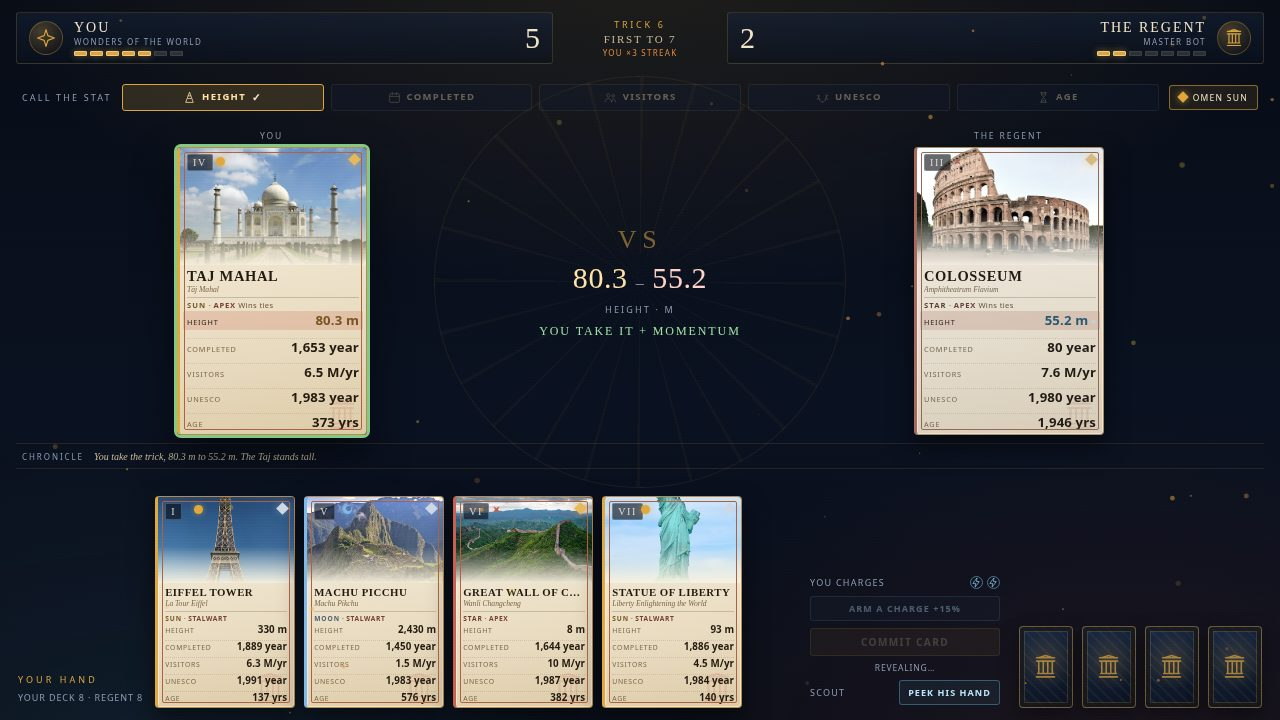
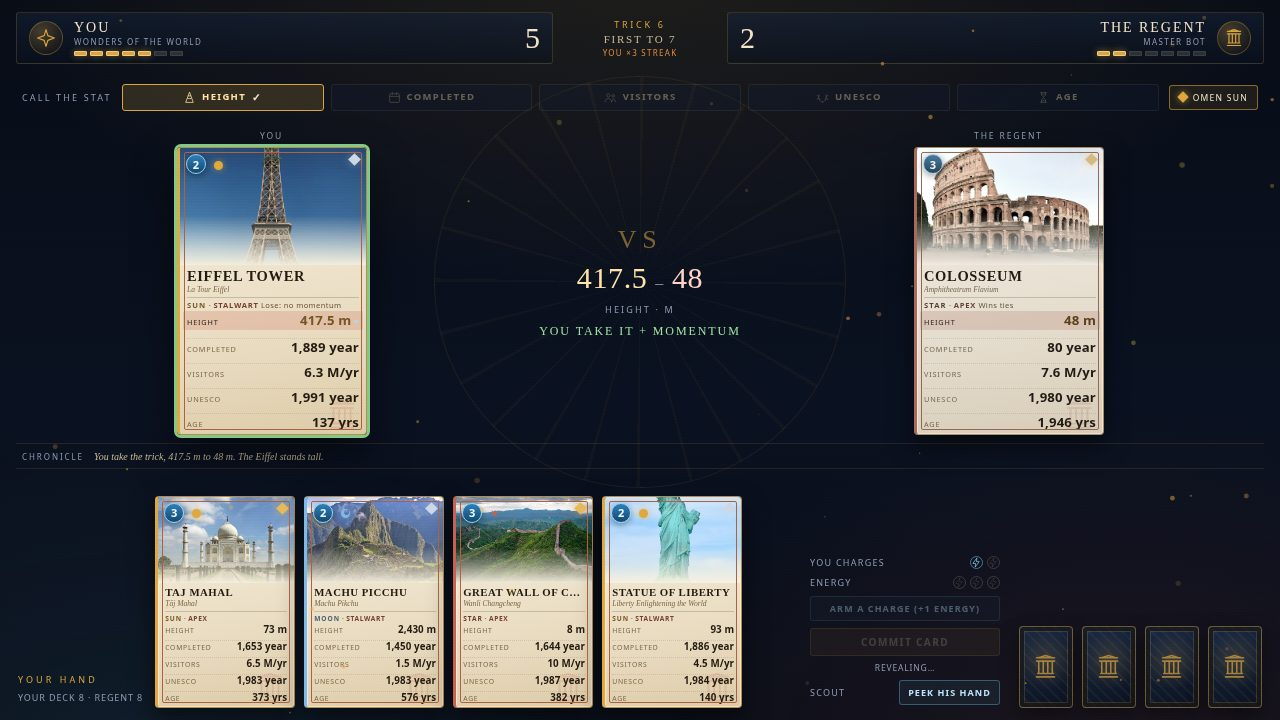
Add trick energy and card costs

diff --git a/game/src/render.js b/game/src/render.js
@@ -82,7 +82,7 @@ export function cardHtml(deck, card, opts = {}) {
   return `<div class="${classes.join(' ')}" style="--accent:${deck.accent};--crest:${CRESTS[crestOf(deck, card)].color}" ${action}>
     <div class="card-photo">
       <img src="./assets/${card.img}.jpg" alt="${esc(card.name)}" draggable="false">
-      <span class="card-rank">${roman(index)}</span>
+      <span class="card-cost" title="Cost ${card.tier} energy">${card.tier}</span>
       ${crestMark(deck, card)}
       <span class="card-tier" title="tier ${card.tier}"></span>
     </div>
@@ -323,7 +323,8 @@ export function renderMatch(root, match, ui) {
       ${handHtml(match, 0, ui)}
       <div class="hand-controls">
         <div class="charge-row"><span>${esc(actor.name)} charges</span><span class="charge-pips">${[0, 1].map((i) => `<span class="charge-pip${i < actor.charges ? '' : ' spent'}">${icon('bolt')}</span>`).join('')}</span></div>
-        <button class="toggle ${ui.chargeArmed ? 'on' : ''}" data-action="toggle-charge" ${actor.charges > 0 && match.phase === 'commit' && ui.selectedCard ? '' : 'disabled'}>${ui.chargeArmed ? 'Charge armed +15%' : 'Arm a charge +15%'}</button>
+        <div class="energy-row"><span>Energy</span><span class="energy-pips">${[0, 1, 2].map((i) => `<span class="energy-pip${i < actor.energy ? '' : ' spent'}">${icon('bolt')}</span>`).join('')}</span></div>
+        <button class="toggle ${ui.chargeArmed ? 'on' : ''}" data-action="toggle-charge" ${actor.charges > 0 && actor.energy > (match.deck.cards.find((c) => c.id === ui.selectedCard)?.tier ?? 9) && match.phase === 'commit' && ui.selectedCard ? '' : 'disabled'}>${ui.chargeArmed ? 'Charge armed +15%' : 'Arm a charge (+1 energy)'}</button>
         <div class="hand-cta">
           <button class="btn primary small" data-action="commit" ${ui.selectedCard && match.phase === 'commit' && match.committed[ui.committer ?? 0] === null && !ui.busy ? '' : 'disabled'}>Commit card</button>
           <span class="hint">${esc(hint)}</span>
@@ -444,6 +445,7 @@ export function renderHelp() {
     <ol>
       <li><b>Call the stat.</b> The call alternates each trick; the leader chooses one of the deck's five stats &mdash; mass, height, moons, whatever the deck offers.</li>
       <li><b>Commit a card.</b> Both duelists choose a card in secret. The card with the higher value in the called stat takes the trick and one point.</li>
+      <li><b>Spend energy.</b> Each trick gives 3 energy. A card costs its tier (1&ndash;3); a charge costs 1 more. A tier-3 card leaves nothing for a charge.</li>
       <li><b>Burn a charge.</b> Each duelist has two charges. Arm one before you commit for +15% to the called stat &mdash; a bluff or a rescue.</li>
       <li><b>Ride momentum.</b> Three tricks in a row earns a bonus point.</li>
       <li><b>Know the traits.</b> <b>Apex</b> wins a tied stat. <b>Swift</b> recovers a charge when it loses. <b>Stalwart</b> denies the winner momentum.</li>

diff --git a/game/src/shots.js b/game/src/shots.js
@@ -30,25 +30,25 @@ function duelScene() {
   match.players[1].score = 2;
   match.players[0].streak = 2;
   match.players[0].run = 2;
-  fillHand(match, 0, ['taj', 'eiffel', 'machu', 'petra']);
+  fillHand(match, 0, ['eiffel', 'taj', 'machu', 'petra']);
   fillHand(match, 1, ['colosseum', 'wall', 'liberty', 'pyramid']);
   match.committed = [null, null];
-  match.players[0].hand = ['taj', 'eiffel', 'machu', 'petra'];
+  match.players[0].hand = ['eiffel', 'taj', 'machu', 'petra'];
   match.players[1].hand = ['colosseum', 'wall', 'liberty', 'pyramid'];
   match.omen = 'sun';
   callStat(match, 'height');
-  commitCard(match, 0, 'taj', false);
-  commitCard(match, 1, 'colosseum', true);
+  commitCard(match, 0, 'eiffel', true);
+  commitCard(match, 1, 'colosseum', false);
   match.players[0].score = 3;
   match.players[1].score = 2;
   reveal(match);
-  match.players[0].hand = ['eiffel', 'machu', 'wall', 'liberty'];
+  match.players[0].hand = ['taj', 'machu', 'wall', 'liberty'];
   match.players[1].hand = ['pyramid', 'petra', 'eiffel', 'machu'];
   match.players[0].draw = ['taj', 'colosseum', 'pyramid', 'petra'];
   match.players[1].draw = ['wall', 'liberty', 'taj', 'colosseum'];
   match.log = [
     'You call HEIGHT. The Regent commits without a word.',
-    'You take the trick, 80.3 m to 55.2 m. The Taj stands tall.',
+    'You take the trick, 417.5 m to 48 m. The Eiffel stands tall.',
   ];
   return { match, ui: {}, screen: 'match' };
 }

diff --git a/game/styles/cards.css b/game/styles/cards.css
@@ -32,11 +32,12 @@
   position: absolute; inset: 0;
   background: linear-gradient(180deg, rgba(7, 12, 22, 0.05) 45%, rgba(13, 21, 37, 0.95) 100%);
 }
-.card-crest { position: absolute; top: 7px; left: 34px; z-index: 1; width: 12px; height: 12px; display: grid; place-items: center; }
+.card-crest { position: absolute; top: 11px; left: 32px; z-index: 1; width: 12px; height: 12px; display: grid; place-items: center; }
 .card-crest i { width: 9px; height: 9px; background: var(--crest); transform: rotate(45deg); box-shadow: 0 0 6px color-mix(in srgb, var(--crest) 60%, transparent); }
 .card-crest[title="Sun crest" i] i { border-radius: 50%; transform: none; }
 .card-crest[title="Moon crest" i] i { border-radius: 50%; transform: none; background: radial-gradient(circle at 62% 38%, transparent 34%, var(--crest) 36%); }
 .card-crest[title="Star crest" i] i { clip-path: polygon(50% 0, 62% 38%, 100% 50%, 62% 62%, 50% 100%, 38% 62%, 0 50%, 38% 38%); background: var(--crest); }
+.card-cost { position: absolute; top: 6px; left: 6px; z-index: 1; width: 20px; height: 20px; border-radius: 50%; display: grid; place-items: center; background: linear-gradient(180deg, #2f7fb9, #14486e); border: 1px solid #8fd0f5; color: #eaf8ff; font: 700 11px/1 var(--sans); box-shadow: 0 2px 7px rgba(0,0,0,.4); }
 .card-rank {
   position: absolute; top: 6px; left: 7px; z-index: 1;
   font-family: var(--serif); font-size: 10px; letter-spacing: 0.16em;

diff --git a/game/src/bots.js b/game/src/bots.js
@@ -40,6 +40,7 @@ export function botCommit(match) {
   const cards = handCards(match, bot);
   const key = match.stat;
   const ranked = cards
+    .filter((card) => card.tier <= bot.energy)
     .map((card) => {
       const value = normalized(match, key, card.stats[key]);
       const cover = match.deck.stats
@@ -49,14 +50,17 @@ export function botCommit(match) {
     })
     .sort((a, b) => b.score - a.score);
 
+  if (!ranked.length) return null;
   if (match.difficulty === 'apprentice') {
     const chosen = ranked[Math.floor(match.random() * ranked.length)] ?? ranked[0];
-    return { cardId: chosen.card.id, charge: bot.charges > 0 && match.random() > 0.9 };
+    const charge = bot.charges > 0 && bot.energy >= chosen.card.tier + 1 && match.random() > 0.9;
+    return { cardId: chosen.card.id, charge };
   }
   const chosen = ranked[0];
   const swing = chosen.value < (match.difficulty === 'master' ? 0.45 : 0.3);
   const pressure = match.players[0].score >= match.target - 2;
-  const wantsCharge = bot.charges > 0 && (swing || (pressure && match.difficulty === 'master' && match.random() > 0.5));
+  const canCharge = bot.charges > 0 && bot.energy >= chosen.card.tier + 1;
+  const wantsCharge = canCharge && (swing || (pressure && match.difficulty === 'master' && match.random() > 0.5));
   return { cardId: chosen.card.id, charge: wantsCharge };
 }
 

diff --git a/game/styles/table.css b/game/styles/table.css
@@ -103,8 +103,10 @@
 .hand-cards.opponent .card { --card-w: 54px; cursor: pointer; }
 .hand-cards.opponent .card.mini { height: 168px; }
 .hand-controls { display: flex; flex-direction: column; gap: 7px; align-items: stretch; padding-bottom: 3px; }
-.charge-row, .scout-row { display: flex; align-items: center; justify-content: space-between; gap: 6px; font-size: 9px; letter-spacing: 0.14em; text-transform: uppercase; color: var(--muted); }
-.charge-pips { display: flex; gap: 4px; }
+.energy-row, .charge-row, .scout-row { display: flex; align-items: center; justify-content: space-between; gap: 6px; font-size: 9px; letter-spacing: 0.14em; text-transform: uppercase; color: var(--muted); }
+.energy-pips, .charge-pips { display: flex; gap: 4px; }
+.energy-pip { width: 13px; height: 13px; border-radius: 50%; border: 1px solid rgba(95, 180, 217, 0.7); display: grid; place-items: center; color: #9fe0ff; background: rgba(47, 127, 185, 0.3); }
+.energy-pip.spent { border-color: rgba(242, 228, 200, 0.18); color: rgba(242, 228, 200, 0.16); background: transparent; }
 .charge-pip { width: 13px; height: 13px; border-radius: 50%; border: 1px solid rgba(95, 180, 217, 0.6); display: grid; place-items: center; color: #9fe0ff; font-size: 8px; }
 .charge-pip.spent { border-color: rgba(242, 228, 200, 0.18); color: rgba(242, 228, 200, 0.2); }
 .toggle {

diff --git a/game/src/rules.js b/game/src/rules.js
@@ -7,6 +7,7 @@ import { createRng, shuffle } from './rng.js';
 
 export const TARGET_POINTS = 7;
 export const HAND_SIZE = 4;
+export const TRICK_ENERGY = 3;
 export const CHARGE_BONUS = 1.15;
 
 export function statRange(deck, key) {
@@ -39,6 +40,7 @@ export function newMatch({ deckId, unlockedIds, mode = 'solo', difficulty = 'ade
     bestStreak: 0,
     charges: 2,
     chargeUsed: false,
+    energy: TRICK_ENERGY,
     scouted: false,
   }));
   const match = {
@@ -107,7 +109,11 @@ export function commitCard(match, playerIndex, cardId, useCharge = false) {
   const player = match.players[playerIndex];
   const at = player.hand.indexOf(cardId);
   if (at === -1) return false;
+  const card = cardOf(match, cardId);
   if (useCharge && player.charges <= 0) useCharge = false;
+  const cost = card.tier + (useCharge ? 1 : 0);
+  if (cost > player.energy) return false;
+  player.energy -= cost;
   player.hand.splice(at, 1);
   if (useCharge) {
     player.charges -= 1;
@@ -192,6 +198,7 @@ export function finishTrick(match) {
     const commit = match.committed[i];
     if (commit) player.discard.push(commit.cardId);
     player.chargeUsed = false;
+    player.energy = TRICK_ENERGY;
     drawToHand(match, player);
   }
   if (match.players.some((player) => player.score >= match.target)) {

diff --git a/game/src/main.js b/game/src/main.js
@@ -319,7 +319,8 @@ app.addEventListener('click', (event) => {
     if (!state.match || !state.ui.selectedCard || state.match.phase !== 'commit') return;
     const committer = state.ui.committer;
     if (state.match.committed[committer] !== null) return;
-    commitCard(state.match, committer, state.ui.selectedCard, state.ui.chargeArmed);
+    const committed = commitCard(state.match, committer, state.ui.selectedCard, state.ui.chargeArmed);
+    if (!committed) return;
     state.ui.selectedCard = null;
     state.ui.chargeArmed = false;
     sound.place();
